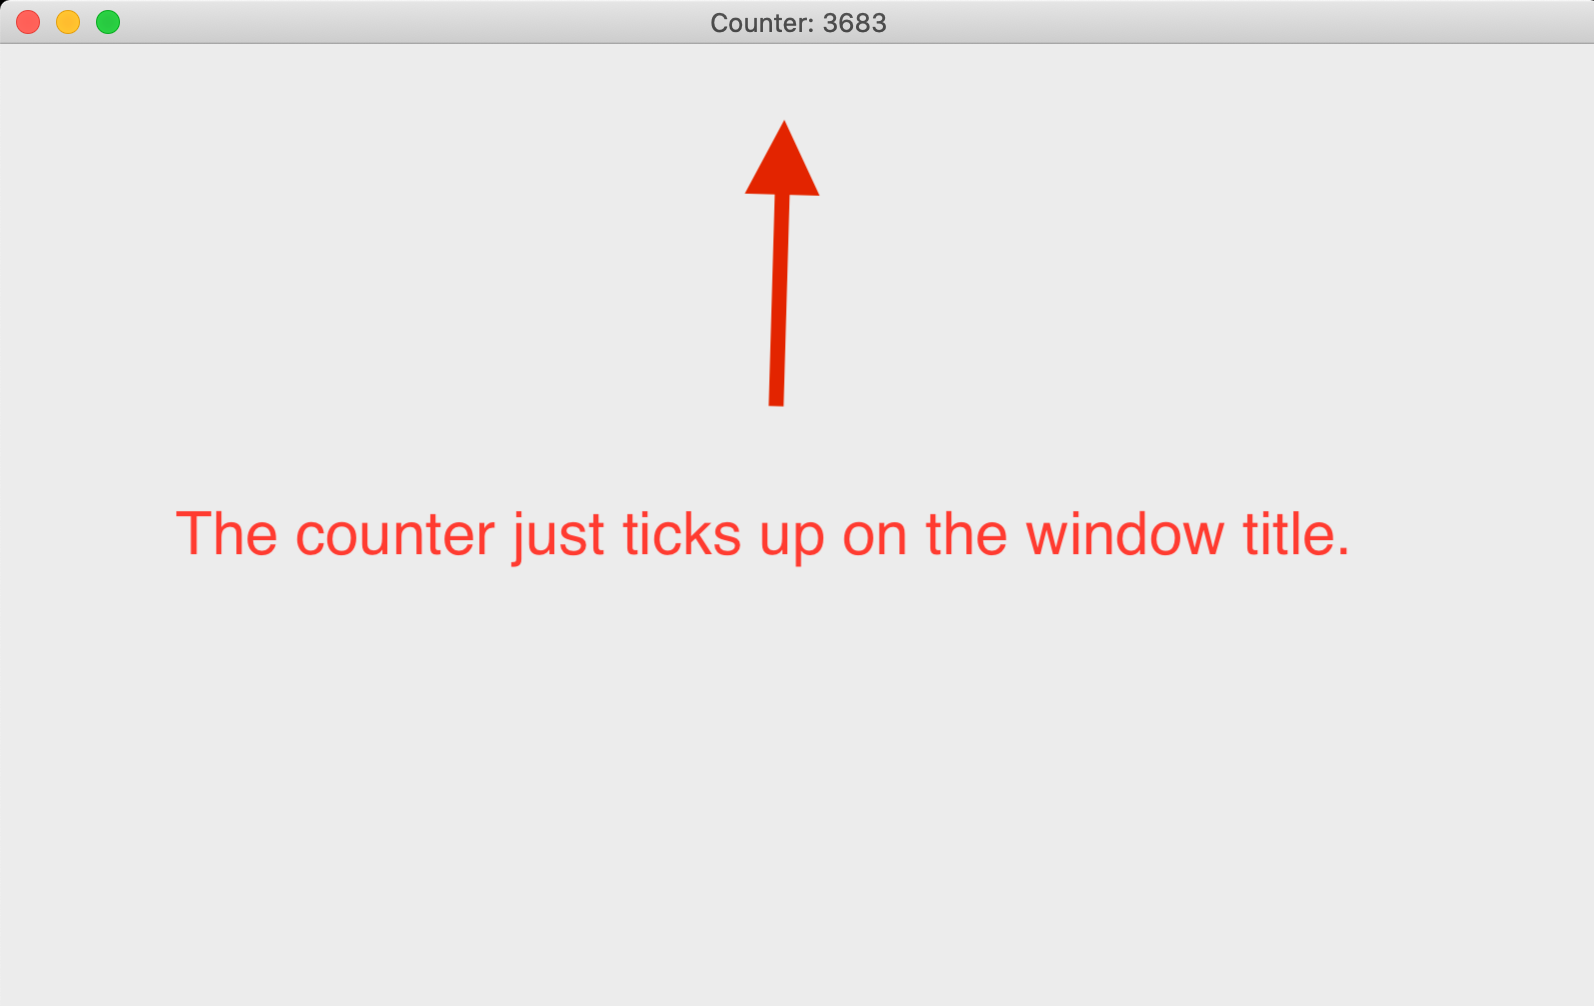
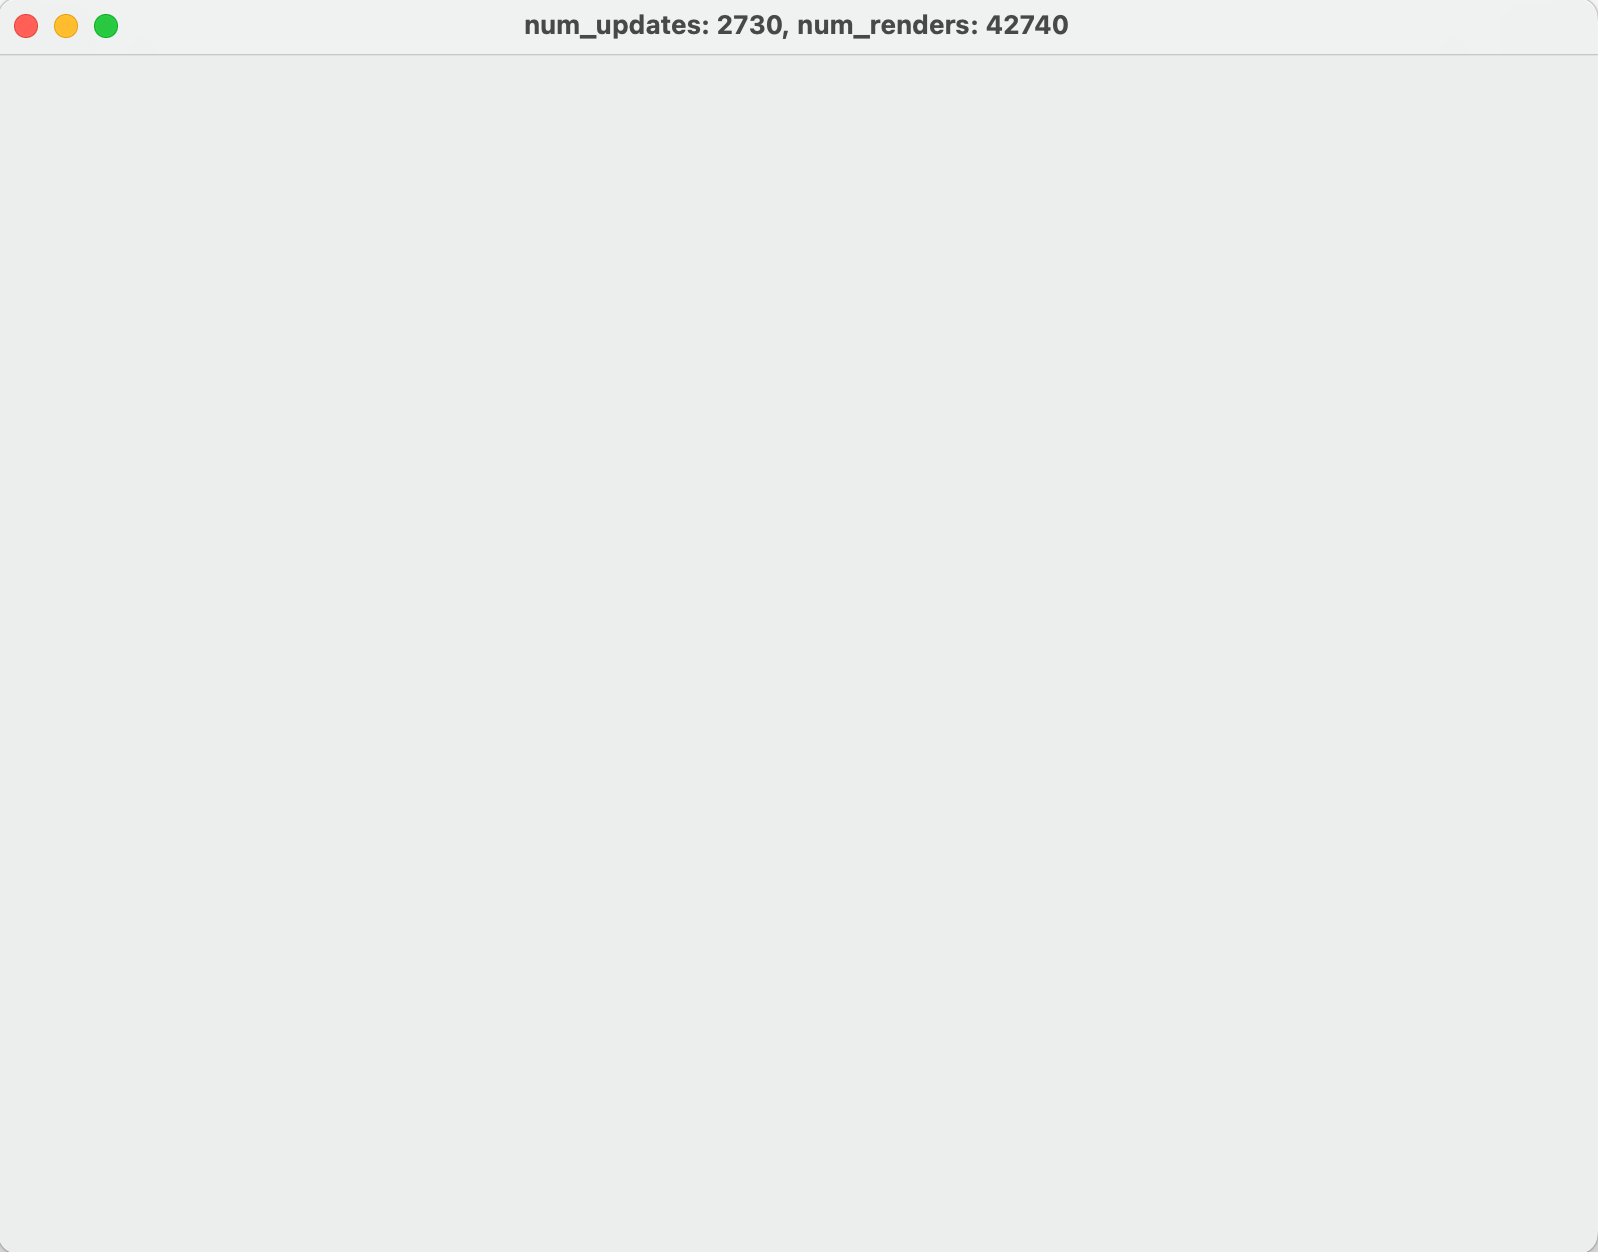
Update the examples to show both num_updates and num_renders

diff --git a/examples/using_wasm/src/main.rs b/examples/using_wasm/src/main.rs
@@ -14,7 +14,8 @@ pub fn main() {
 
 struct Game {
     span: web_sys::Element,
-    counter: u32,
+    num_updates: u32,
+    num_renders: u32,
 }
 
 impl Game {
@@ -26,14 +27,15 @@ impl Game {
 
         body.append_child(&span).unwrap();
 
-        Self { span, counter: 0 }
+        Self { span, num_updates: 0, num_renders: 0 }
     }
 
     pub fn your_update_function(&mut self) {
-        self.counter += 1;
+        self.num_updates += 1;
     }
 
-    pub fn your_render_function(&self) {
-        self.span.set_inner_html(&format!("Counter: {}", self.counter));
+    pub fn your_render_function(&mut self) {
+        self.num_renders += 1;
+        self.span.set_inner_html(&format!("num_updates: {}, num_renders: {}", self.num_updates, self.num_renders));
     }
 }

diff --git a/examples/using_tao.rs b/examples/using_tao.rs
@@ -34,7 +34,8 @@ fn main() {
 
 #[derive(Default)]
 struct Game {
-    counter: u32,
+    num_updates: u32,
+    num_renders: u32,
 }
 
 impl Game {
@@ -43,11 +44,12 @@ impl Game {
     }
 
     pub fn your_update_function(&mut self) {
-        self.counter += 1;
+        self.num_updates += 1;
     }
 
-    pub fn your_render_function(&self, window: &Window) {
-        window.set_title(&format!("Counter: {}", self.counter));
+    pub fn your_render_function(&mut self, window: &Window) {
+        self.num_renders += 1;
+        window.set_title(&format!("num_updates: {}, num_renders: {}", self.num_updates, self.num_renders));
     }
 
     // A very simple handler that returns false when CloseRequested is detected.

diff --git a/examples/using_winit.rs b/examples/using_winit.rs
@@ -27,7 +27,8 @@ fn main() {
 
 #[derive(Default)]
 struct Game {
-    counter: u32,
+    num_updates: u32,
+    num_renders: u32,
 }
 
 impl Game {
@@ -36,11 +37,12 @@ impl Game {
     }
 
     pub fn your_update_function(&mut self) {
-        self.counter += 1;
+        self.num_updates += 1;
     }
 
-    pub fn your_render_function(&self, window: &Window) {
-        window.set_title(&format!("Counter: {}", self.counter));
+    pub fn your_render_function(&mut self, window: &Window) {
+        self.num_renders += 1;
+        window.set_title(&format!("num_updates: {}, num_renders: {}", self.num_updates, self.num_renders));
     }
 
     // A very simple handler that returns false when CloseRequested is detected.

diff --git a/README.md b/README.md
@@ -112,7 +112,7 @@ use the crate in a web browser. You can run it with:
 cd examples/using_wasm && ./run_example
 ```
 
-Then open [localhost:8000](http://localhost:8000) in your web browser.
+Then open [localhost:8000](http://localhost:8000) in your web browser. The counters just tick up on the web page:
 
 ![Using WASM](./examples/using_wasm.png)
 
@@ -125,6 +125,8 @@ use the crate alongside a winit window. You can run it with:
 cargo run --example using_winit --features winit
 ```
 
+The counters just tick up on the window title:
+
 ![Using Winit](./examples/using_winit.png)
 
 ## Example 4: Using a TAO Window
@@ -135,6 +137,8 @@ crate alongside a TAO window with a native menu bar. You can run it with:
 ```sh
 cargo run --example using_tao --features tao
 ```
+
+The counters just tick up on the window title:
 
 ![Using TAO](./examples/using_tao.png)
 
